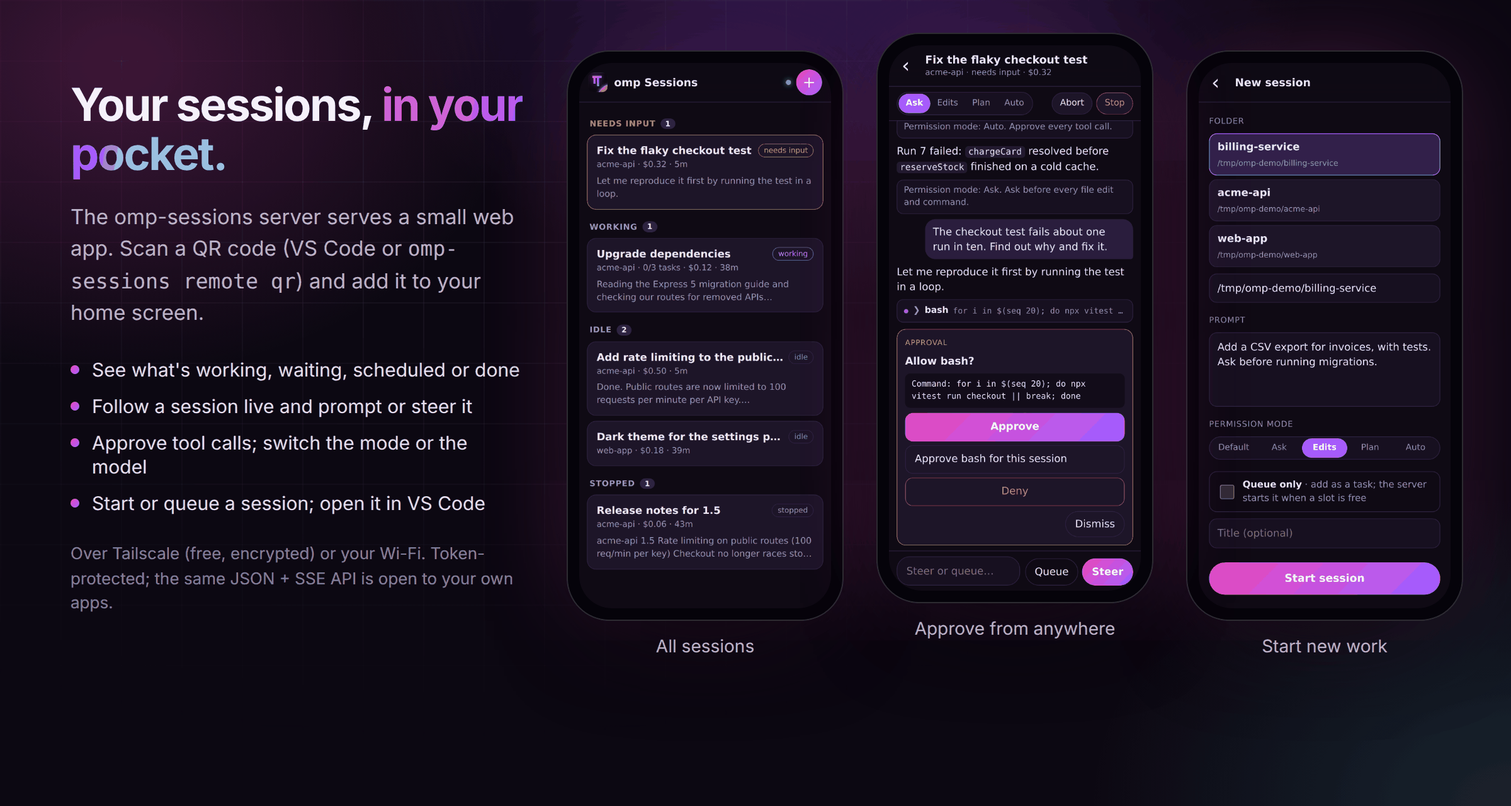
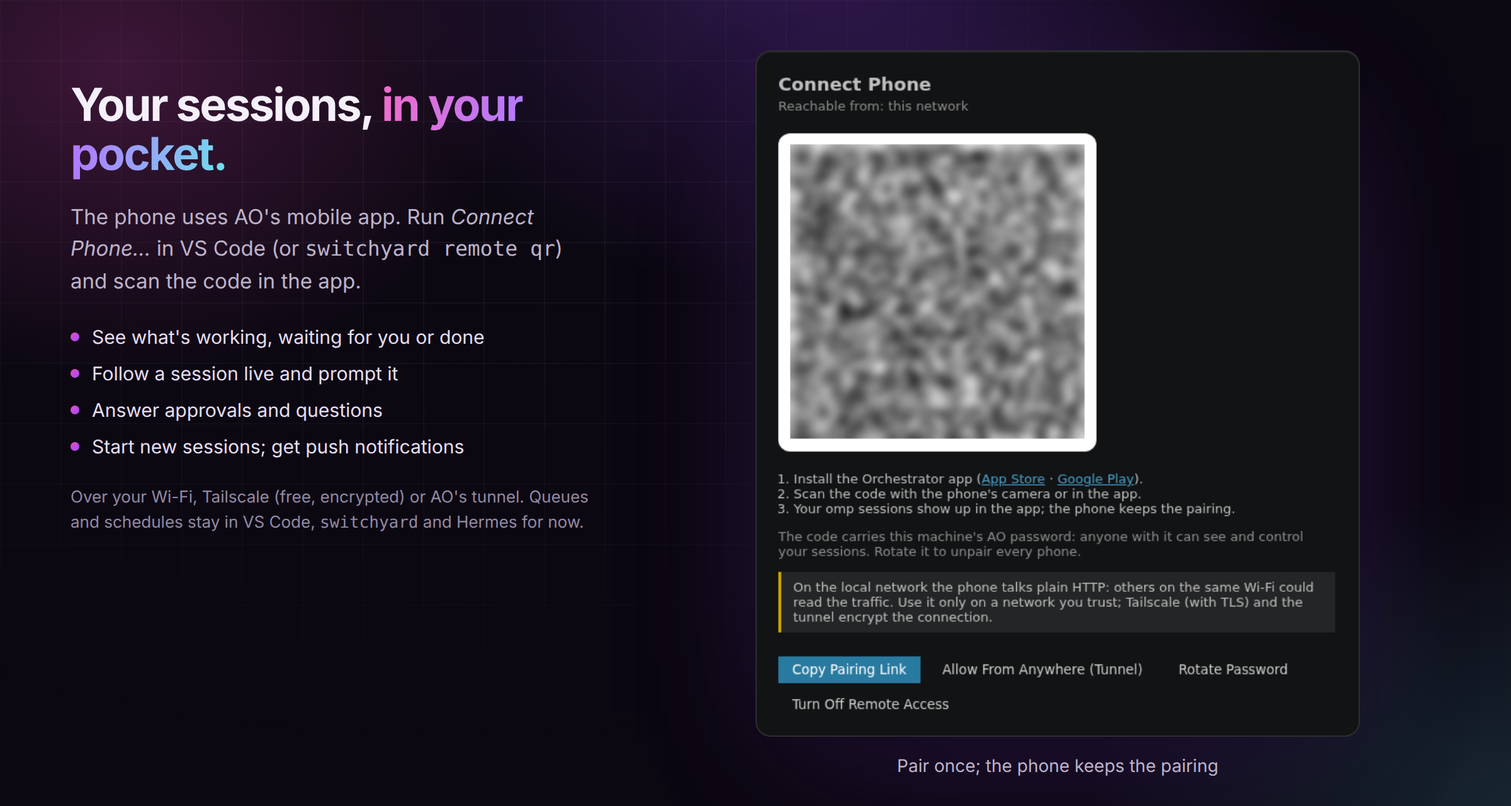
README graphics and link preview for Switchyard: planner + AO architecture, AO's phone app, no voice; hero shows a plan instead of the old phone app

diff --git a/docs/images/src/how-it-works.html b/docs/images/src/how-it-works.html
@@ -22,10 +22,10 @@ h2 { position: absolute; left: 56px; top: 40px; margin: 0; font-size: 30px; lett
 	border-radius: 20px; border: 1px dashed rgba(201, 165, 255, 0.45); background: rgba(155, 77, 255, 0.05);
 }
 .machine .title { position: absolute; left: 18px; top: -11px; padding: 0 8px; background: #0c0812; font-size: 13px; color: #c9a5ff; font-weight: 600; }
-.host { left: 452px; top: 186px; width: 200px; }
-.omp { left: 678px; top: 186px; width: 200px; }
-.server { left: 452px; top: 420px; width: 426px; }
-.repo { left: 960px; top: 186px; width: 190px; }
+.planner { left: 452px; top: 186px; width: 426px; }
+.ao { left: 452px; top: 352px; width: 200px; }
+.omp { left: 678px; top: 352px; width: 200px; }
+.repo { left: 960px; top: 352px; width: 190px; }
 .badge { display: inline-block; margin-top: 8px; padding: 3px 8px; border-radius: 999px; font-size: 12px; background: rgba(137, 209, 133, 0.12); color: #89d185; border: 1px solid rgba(137, 209, 133, 0.35); }
 .edge { position: absolute; font-size: 12px; color: #9389a3; }
 svg.wires { position: absolute; inset: 0; }
@@ -45,47 +45,50 @@ svg.wires { position: absolute; inset: 0; }
 		<marker id="a" viewBox="0 0 10 10" refX="8" refY="5" markerWidth="7" markerHeight="7" orient="auto"><path d="M0 0L10 5L0 10z" fill="#b383ff"/></marker>
 		<marker id="c" viewBox="0 0 10 10" refX="8" refY="5" markerWidth="7" markerHeight="7" orient="auto"><path d="M0 0L10 5L0 10z" fill="#5ad8e6"/></marker>
 	</defs>
-	<path d="M346 228 C 400 228, 400 240, 450 240" stroke="url(#w)" marker-end="url(#a)"/>
-	<path d="M346 345 C 400 345, 400 462, 450 462" stroke="url(#w)" marker-end="url(#a)"/>
-	<path d="M346 470 C 400 470, 400 482, 450 482" stroke="url(#w)" marker-end="url(#a)"/>
-	<path d="M552 418 L 552 392" stroke="#b383ff" stroke-dasharray="4 4" marker-end="url(#a)"/>
-	<path d="M652 270 L 676 270" stroke="#b383ff" marker-end="url(#a)"/>
-	<path d="M878 260 L 958 260" stroke="#5ad8e6" marker-end="url(#c)"/>
+	<path d="M346 222 C 400 222, 400 226, 450 226" stroke="url(#w)" marker-end="url(#a)"/>
+	<path d="M346 330 C 400 330, 400 254, 450 254" stroke="url(#w)" marker-end="url(#a)"/>
+	<path d="M346 350 C 400 350, 400 408, 450 408" stroke="url(#w)" marker-end="url(#a)"/>
+	<path d="M346 470 C 400 470, 400 436, 450 436" stroke="url(#w)" marker-end="url(#a)"/>
+	<path d="M552 300 L 552 348" stroke="#b383ff" stroke-dasharray="4 4" marker-end="url(#a)"/>
+	<path d="M652 420 L 676 420" stroke="#b383ff" marker-end="url(#a)"/>
+	<path d="M878 420 L 958 420" stroke="#5ad8e6" marker-end="url(#c)"/>
 </svg>
-<div class="edge" style="left:564px;top:396px">launches · relays</div>
-<div class="edge" style="left:886px;top:236px">edits</div>
+<div class="edge" style="left:356px;top:198px">plans</div>
+<div class="edge" style="left:356px;top:484px">sessions</div>
+<div class="edge" style="left:564px;top:316px">sends ready tasks</div>
+<div class="edge" style="left:886px;top:396px">edits</div>
 
 <div class="box client" style="top:160px">
 	<h3><span class="ic" style="background:rgba(79,193,255,.15);color:#4fc1ff"><svg viewBox="0 0 24 24"><rect x="3" y="4" width="18" height="16" rx="2"/><path d="M3 9h18M8 9v11"/></svg></span>VS Code windows</h3>
 	<p>Chat, Sessions view, board, tasks, diffs, undo. Local or Remote-SSH; any number of windows attach.</p>
 </div>
 <div class="box client" style="top:290px">
-	<h3><span class="ic" style="background:rgba(229,192,123,.15);color:#e5c07b"><svg viewBox="0 0 24 24"><path d="M5 7l5 5-5 5M12 18h7"/></svg></span><span class="mono">omp-sessions</span> · other agents</h3>
+	<h3 style="font-size:16px;white-space:nowrap"><span class="ic" style="background:rgba(229,192,123,.15);color:#e5c07b"><svg viewBox="0 0 24 24"><path d="M5 7l5 5-5 5M12 18h7"/></svg></span><span class="mono">switchyard</span>· other agents</h3>
 	<p>Your shell and scripts; Hermes (plugin), Claude Code and Codex (skill).</p>
 </div>
 <div class="box client" style="top:410px">
 	<h3><span class="ic" style="background:rgba(237,74,191,.15);color:#f27bcf"><svg viewBox="0 0 24 24"><rect x="7" y="2.5" width="10" height="19" rx="2.5"/><path d="M11 18.5h2"/></svg></span>Phone · your apps</h3>
-	<p>Web app over Tailscale or Wi-Fi, and a token-protected HTTP API.</p>
+	<p>AO's mobile app, paired with a QR code, and AO's HTTP API.</p>
 </div>
 
 <div class="machine"><span class="title">detached from VS Code · survives closing it, sleep, SSH drops</span></div>
-<div class="box host">
-	<h3>Session host</h3>
-	<p>One per session. Owns omp, keeps the transcript, answers approvals by mode, snapshots every edit.</p>
+<div class="box planner">
+	<h3><span class="ic" style="background:rgba(155,77,255,.18);color:#c9a5ff"><svg viewBox="0 0 24 24"><rect x="4" y="4" width="16" height="6" rx="1.5"/><rect x="4" y="14" width="16" height="6" rx="1.5"/><path d="M8 7h.01M8 17h.01"/></svg></span>Switchyard planner</h3>
+	<p>One per user. Holds your plans: task graphs, queues, schedules, the concurrency limit and usage holds. Starts each task when it is ready, also after a reboot.</p>
+</div>
+<div class="box ao">
+	<h3>Agent Orchestrator</h3>
+	<p>The AO daemon gives each session a git worktree and a chat host that outlives every client; holds approvals.</p>
 </div>
 <div class="box omp">
 	<h3><img src="../../../site/assets/logo.svg" alt="" style="width:22px;height:22px">omp</h3>
-	<p>oh-my-pi in RPC mode: your models, tools, skills and settings.</p>
+	<p>oh-my-pi in the session's worktree: your models, tools, skills. Switchyard's extension adds modes and undo.</p>
 	<span class="badge">keeps working</span>
-</div>
-<div class="box server">
-	<h3><span class="ic" style="background:rgba(155,77,255,.18);color:#c9a5ff"><svg viewBox="0 0 24 24"><rect x="4" y="4" width="16" height="6" rx="1.5"/><rect x="4" y="14" width="16" height="6" rx="1.5"/><path d="M8 7h.01M8 17h.01"/></svg></span>omp-sessions server</h3>
-	<p>One per user. Starts queued tasks when a slot frees (also after a reboot), serves <span class="mono">omp-sessions</span>, the phone app and its API.</p>
 </div>
 <div class="box repo">
 	<h3><span class="ic" style="background:rgba(90,216,230,.14);color:#5ad8e6"><svg viewBox="0 0 24 24"><path d="M3 7a2 2 0 0 1 2-2h4l2 2h8a2 2 0 0 1 2 2v8a2 2 0 0 1-2 2H5a2 2 0 0 1-2-2z"/></svg></span>Repository</h3>
-	<p>Edits land on disk; each one can be diffed, reverted, or undone with its turn.</p>
+	<p>A branch <span class="mono">ao/&lt;session&gt;/root</span> per session: diff it, revert, undo a turn, merge.</p>
 </div>
 
-<div class="foot">State: <span class="mono">~/.omp/vscode</span> · transcripts stay in omp's own <span class="mono">~/.omp/agent/sessions</span></div>
+<div class="foot">State: <span class="mono">~/.switchyard</span> (plans) · <span class="mono">~/.ao/data</span> (sessions, worktrees) · transcripts stay in omp's own <span class="mono">~/.omp/agent/sessions</span></div>
 </body></html>

diff --git a/docs/images/src/setup.html b/docs/images/src/setup.html
@@ -31,7 +31,7 @@ svg.wires { position: absolute; inset: 0; }
 </style></head>
 <body><div class="glow"></div><div class="grid"></div>
 <h2>One machine runs it all</h2>
-<div class="sub dim">Your own computer or a server: it runs the code, the agents and Hermes. VS Code, Hermes Desktop and your phone are windows onto it.</div>
+<div class="sub dim">Your own computer or a server: it runs the code, AO, the planner and Hermes. VS Code, Hermes Desktop and your phone are windows onto it.</div>
 
 <div class="col-label" style="left:48px">Here or on a laptop</div>
 <div class="col-label" style="left:930px">Phone</div>
@@ -41,22 +41,22 @@ svg.wires { position: absolute; inset: 0; }
 		<marker id="a" viewBox="0 0 10 10" refX="8" refY="5" markerWidth="7" markerHeight="7" orient="auto"><path d="M0 0L10 5L0 10z" fill="#b383ff"/></marker>
 		<marker id="c" viewBox="0 0 10 10" refX="8" refY="5" markerWidth="7" markerHeight="7" orient="auto"><path d="M0 0L10 5L0 10z" fill="#5ad8e6"/></marker>
 	</defs>
-	<!-- VS Code -> omp-sessions -->
+	<!-- VS Code -> planner + AO -->
 	<path d="M310 214 L 410 214" stroke="#b383ff" marker-end="url(#a)"/>
 	<!-- Desktop -> Hermes -->
 	<path d="M310 420 L 410 420" stroke="#b383ff" marker-end="url(#a)"/>
-	<!-- phone app -> omp-sessions -->
+	<!-- AO's phone app -> AO -->
 	<path d="M930 214 L 830 214" stroke="#5ad8e6" marker-end="url(#c)"/>
 	<!-- chats -> Hermes -->
 	<path d="M930 420 L 830 420" stroke="#5ad8e6" marker-end="url(#c)"/>
-	<!-- plugin -> omp-sessions -->
+	<!-- plugin -> planner + AO -->
 	<path d="M560 372 L 560 306" stroke="#b383ff" stroke-dasharray="4 4" marker-end="url(#a)"/>
 </svg>
 <div class="edge" style="left:318px;top:190px">local · SSH</div>
 <div class="edge" style="left:318px;top:396px">local · SSH</div>
-<div class="edge" style="left:846px;top:190px">Tailscale</div>
+<div class="edge" style="left:846px;top:176px;line-height:1.3">Wi-Fi ·<br>Tailscale</div>
 <div class="edge" style="left:846px;top:396px">chat apps</div>
-<div class="edge" style="left:572px;top:330px">omp_session_* · kanban lane</div>
+<div class="edge" style="left:572px;top:330px">switchyard_* · kanban lane</div>
 
 <div class="box left" style="top:160px">
 	<h3><span class="ic" style="background:rgba(79,193,255,.15);color:#4fc1ff"><svg viewBox="0 0 24 24"><rect x="3" y="4" width="18" height="16" rx="2"/><path d="M3 9h18M8 9v11"/></svg></span>VS Code</h3>
@@ -64,27 +64,27 @@ svg.wires { position: absolute; inset: 0; }
 </div>
 <div class="box left" style="top:366px">
 	<h3><span class="ic" style="background:rgba(155,77,255,.18);color:#c9a5ff"><svg viewBox="0 0 24 24"><path d="M12 8V4.5H8.5"/><rect x="4" y="8" width="16" height="12" rx="2.5"/><path d="M9 13v2M15 13v2"/></svg></span>Hermes Desktop</h3>
-	<p>Chats with Hermes, its kanban, and the <b>omp Sessions</b> page in the sidebar.</p>
+	<p>Chats with Hermes, its kanban, and the <b>Switchyard</b> page in the sidebar.</p>
 </div>
 
 <div class="ws"><span class="title">The machine with your code · always on</span></div>
 <div class="box mid" style="top:170px">
-	<h3><span class="ic" style="background:rgba(155,77,255,.18);color:#c9a5ff"><svg viewBox="0 0 24 24"><rect x="4" y="4" width="16" height="6" rx="1.5"/><rect x="4" y="14" width="16" height="6" rx="1.5"/><path d="M8 7h.01M8 17h.01"/></svg></span>omp-sessions server <span class="dimmer" style="font-weight:500;font-size:13px">systemd / launchd service</span></h3>
-	<p>Queue, schedule and concurrency limit; starts a detached session host per session, each running omp in your repository.</p>
-	<span class="pill">session host + omp</span><span class="pill">session host + omp</span><span class="pill">phone app + API</span>
+	<h3><span class="ic" style="background:rgba(155,77,255,.18);color:#c9a5ff"><svg viewBox="0 0 24 24"><rect x="4" y="4" width="16" height="6" rx="1.5"/><rect x="4" y="14" width="16" height="6" rx="1.5"/><path d="M8 7h.01M8 17h.01"/></svg></span>Switchyard planner + AO <span class="dimmer" style="font-weight:500;font-size:13px">user services</span></h3>
+	<p>The planner holds plans, queues, schedules and limits and sends ready tasks to AO; AO runs each session as omp in its own worktree.</p>
+	<span class="pill">AO session + omp</span><span class="pill">AO session + omp</span><span class="pill">phone pairing</span>
 </div>
 <div class="box mid" style="top:372px">
 	<h3><span class="ic" style="background:rgba(237,74,191,.15);color:#f27bcf"><svg viewBox="0 0 24 24"><path d="M12 3l1.9 5.1L19 10l-5.1 1.9L12 17l-1.9-5.1L5 10l5.1-1.9z"/></svg></span>Hermes gateway + dashboard</h3>
-	<p>Profiles, chats, cron and kanban boards. The <span class="mono">omp-sessions</span> plugin adds the tools, the lane (cards assigned to <span class="mono">omp</span>) and the page.</p>
+	<p>Profiles, chats, cron and kanban boards. The <span class="mono">switchyard</span> plugin adds the tools, the lane (cards assigned to <span class="mono">omp</span>) and the page.</p>
 	<span class="pill">lane on in one profile</span><span class="pill">plugin in every profile</span>
 </div>
 <div class="box mid" style="top:540px;width:412px;padding:10px 15px">
-	<h3 style="font-size:14px"><span class="ic" style="background:rgba(90,216,230,.14);color:#5ad8e6;width:24px;height:24px"><svg viewBox="0 0 24 24"><path d="M3 7a2 2 0 0 1 2-2h4l2 2h8a2 2 0 0 1 2 2v8a2 2 0 0 1-2 2H5a2 2 0 0 1-2-2z"/></svg></span>Repositories and worktrees</h3>
+	<h3 style="font-size:14px"><span class="ic" style="background:rgba(90,216,230,.14);color:#5ad8e6;width:24px;height:24px"><svg viewBox="0 0 24 24"><path d="M3 7a2 2 0 0 1 2-2h4l2 2h8a2 2 0 0 1 2 2v8a2 2 0 0 1-2 2H5a2 2 0 0 1-2-2z"/></svg></span>Repositories · a worktree per session</h3>
 </div>
 
 <div class="box right" style="top:160px">
-	<h3><span class="ic" style="background:rgba(237,74,191,.15);color:#f27bcf"><svg viewBox="0 0 24 24"><rect x="7" y="2.5" width="10" height="19" rx="2.5"/><path d="M11 18.5h2"/></svg></span>omp phone app</h3>
-	<p>Follow, answer and start sessions, over Tailscale or your Wi-Fi.</p>
+	<h3><span class="ic" style="background:rgba(237,74,191,.15);color:#f27bcf"><svg viewBox="0 0 24 24"><rect x="7" y="2.5" width="10" height="19" rx="2.5"/><path d="M11 18.5h2"/></svg></span>AO's phone app</h3>
+	<p>Follow, answer and start sessions over Wi-Fi, Tailscale or AO's tunnel.</p>
 </div>
 <div class="box right" style="top:366px">
 	<h3><span class="ic" style="background:rgba(229,192,123,.15);color:#e5c07b"><svg viewBox="0 0 24 24"><path d="M4 5h16v11H8l-4 4z"/></svg></span>Hermes chats</h3>

diff --git a/docs/images/src/hero.html b/docs/images/src/hero.html
@@ -2,30 +2,48 @@
 <html><head><meta charset="utf-8"><link rel="stylesheet" href="base.css">
 <style>
 body { width: 1200px; height: 580px; }
-.left { position: absolute; left: 60px; top: 56px; width: 470px; }
+.left { position: absolute; left: 60px; top: 56px; width: 450px; }
 h1 { margin: 42px 0 0; font-size: 50px; line-height: 1.04; letter-spacing: -0.04em; font-weight: 750; }
-p { margin: 22px 0 0; font-size: 18px; line-height: 1.5; }
+p { margin: 22px 0 0; font-size: 17.5px; line-height: 1.5; }
 p b { color: #f4f0f9; font-weight: 600; }
-.chips { margin-top: 28px; display: flex; flex-wrap: wrap; gap: 9px; }
-.shot { position: absolute; left: 545px; top: 64px; width: 590px; }
-.phone { position: absolute; left: 992px; top: 160px; width: 172px; }
-.tag { position: absolute; left: 545px; top: 474px; }
+.chips { margin-top: 26px; display: flex; flex-wrap: wrap; gap: 9px; }
+/* chat.png cropped to the editor area (x 572–1600, y 44–958), without the old side bar and status bar */
+.shot { position: absolute; left: 540px; top: 56px; width: 520px; height: 463px; }
+.shot img { width: 809px; max-width: none; margin: -22px 0 0 -289px; }
+/* the composer's old microphone button (removed from the product) */
+.shot .patch { position: absolute; left: 34px; top: 429px; width: 13px; height: 12px; background: #313131; }
+.plan { position: absolute; left: 892px; top: 238px; width: 276px; padding: 15px 17px; border-radius: 14px; background: rgba(21, 15, 30, 0.95); border: 1px solid rgba(236, 225, 255, 0.16); box-shadow: 0 30px 80px -30px rgba(0, 0, 0, 0.95), 0 0 90px -30px rgba(237, 74, 191, 0.55); }
+.plan h2 { margin: 0 0 4px; font-size: 11.5px; letter-spacing: 0.13em; color: #9389a3; font-weight: 650; }
+.row { display: flex; align-items: center; gap: 9px; padding: 8px 0; border-bottom: 1px solid rgba(236, 225, 255, 0.08); font-size: 14px; color: #e6def2; }
+.row.sub { padding-left: 17px; font-size: 13px; color: #bdb3cb; }
+.row .t { flex: 1; }
+.row .m { font-size: 12px; color: #9389a3; }
+.plan .s { margin-top: 11px; font-size: 12px; color: #c9a5ff; }
+.tag { position: absolute; left: 540px; top: 530px; }
 .tag .chip { background: rgba(21, 15, 30, 0.92); font-size: 13px; }
 </style></head>
 <body><div class="glow"></div><div class="grid"></div>
 <div class="left">
-	<div class="brand"><img src="../../../site/assets/logo.svg" alt="">omp Sessions</div>
-	<h1>A task server for <span class="g">your coding agents.</span></h1>
-	<p class="dim">Background <b>oh-my-pi</b> sessions, each with its own task queue, scheduled starts and one concurrency limit across all of them. Drive them from the terminal, VS Code, your phone or Hermes. Close the laptop or drop SSH: the work goes on.</p>
+	<div class="brand"><img src="../../../site/assets/logo.svg" alt="">Switchyard</div>
+	<h1>Plans for <span class="g">your coding agents.</span></h1>
+	<p class="dim">Tasks with subtasks and dependencies, queues, schedules and one limit on how many run at once. The planner hands each ready task to <b>Agent Orchestrator</b>, which runs it as an <b>oh-my-pi</b> session in its own git worktree. Close the laptop or drop SSH: the work goes on.</p>
 	<div class="chips">
-		<span class="chip"><span class="dot" style="background:#e5c07b"></span>Queues &amp; schedules</span>
-		<span class="chip"><span class="dot" style="background:#5ad8e6"></span>Runs in the background</span>
+		<span class="chip"><span class="dot" style="background:#e5c07b"></span>Task graphs &amp; queues</span>
+		<span class="chip"><span class="dot" style="background:#5ad8e6"></span>Schedules &amp; usage limits</span>
 		<span class="chip"><span class="dot" style="background:#b383ff"></span>Ask · Edits · Plan · Auto</span>
 		<span class="chip"><span class="dot" style="background:#ed4abf"></span>Undo any turn</span>
-		<span class="chip"><span class="dot" style="background:#89d185"></span>VS Code · CLI · phone · Hermes</span>
+		<span class="chip"><span class="dot" style="background:#89d185"></span>VS Code · CLI · Hermes · phone</span>
 	</div>
 </div>
-<div class="win shot"><img src="../chat.png" alt=""></div>
-<div class="phone"><img src="../phone/approval.png" alt=""></div>
-<div class="tag"><span class="chip mono"><span class="dot" style="background:#89d185"></span>VS Code closed · 3 sessions still running</span></div>
+<div class="win shot"><img src="../chat.png" alt=""><div class="patch"></div></div>
+<div class="plan">
+	<h2>PLAN · ACME-API</h2>
+	<div class="row"><span class="dot" style="background:#4fc1ff"></span><span class="t">Upgrade dependencies</span><span class="m">▶ 2/3</span></div>
+	<div class="row sub"><span class="t">└ Release notes for 1.5</span><span class="m">after it</span></div>
+	<div class="row"><span class="dot" style="background:#ed4abf"></span><span class="t">Fix the flaky test</span><span class="m">needs you</span></div>
+	<div class="row"><span class="dot" style="background:#89d185"></span><span class="t">Rate limiting</span><span class="m">done</span></div>
+	<div class="row" style="border-bottom:0"><span class="dot" style="background:#5ad8e6"></span><span class="t">Nightly cleanup</span><span class="m">at 02:00</span></div>
+	<div class="s mono">planner → AO · 2/3 slots busy</div>
+</div>
+<div class="tag"><span class="chip mono"><span class="dot" style="background:#89d185"></span>VS Code closed · AO keeps 3 sessions running</span></div>
 </body></html>

diff --git a/docs/images/src/a-day.html b/docs/images/src/a-day.html
@@ -13,8 +13,6 @@ h2 { position: absolute; left: 56px; top: 40px; margin: 0; font-size: 30px; lett
 .thumb { height: 150px; overflow: hidden; background: #1f1f1f; border-bottom: 1px solid rgba(236, 225, 255, 0.1); position: relative; }
 .thumb img { width: 100%; height: 100%; object-fit: cover; display: block; }
 .thumb img.crop { width: 560px; height: auto; max-width: none; object-fit: fill; }
-.thumb.phoneish { background: #0c0812; display: grid; place-items: center; }
-.thumb.phoneish img { width: auto; height: 136px; object-fit: contain; border-radius: 10px; border: 1px solid rgba(255,255,255,.14); }
 .thumb.away { background: radial-gradient(70% 90% at 50% 40%, rgba(155, 77, 255, 0.22), transparent 70%), #120c1a; display: flex; flex-direction: column; justify-content: center; gap: 8px; padding: 0 14px; }
 .thumb.away .row { display: flex; align-items: center; gap: 8px; font-size: 12.5px; color: #e6def2; background: rgba(42, 31, 57, 0.8); border: 1px solid rgba(236, 225, 255, 0.12); border-radius: 8px; padding: 6px 9px; }
 .thumb.away .row span:last-child { margin-left: auto; color: #9389a3; font-size: 11.5px; }
@@ -23,14 +21,14 @@ h2 { position: absolute; left: 56px; top: 40px; margin: 0; font-size: 30px; lett
 .body p { margin: 6px 0 0; font-size: 13px; line-height: 1.45; color: #bdb3cb; }
 </style></head>
 <body><div class="glow"></div><div class="grid"></div>
-<h2>A day with omp Sessions</h2>
-<div class="sub dim">Hand work to omp in the morning, check in from anywhere, review and keep what's good.</div>
+<h2>A day with Switchyard</h2>
+<div class="sub dim">Plan the work in the morning, check in from anywhere, review and keep what's good.</div>
 <div class="line"></div>
 <div class="steps">
 	<div class="step">
 		<div class="pin">1</div><div class="time">09:00 · at your desk</div>
 		<div class="card"><div class="thumb"><img class="crop" src="../tasks.png" style="margin: -50px 0 0 -26px;" alt=""></div>
-		<div class="body"><h3>Queue the day</h3><p>Tasks with subtasks across two repos. Two run at a time; the rest wait their turn.</p></div></div>
+		<div class="body"><h3>Plan the day</h3><p>Tasks, subtasks and dependencies across two repos. Two run at a time; the rest wait their turn.</p></div></div>
 	</div>
 	<div class="step">
 		<div class="pin">2</div><div class="time">09:30 · laptop closed</div>
@@ -39,12 +37,12 @@ h2 { position: absolute; left: 56px; top: 40px; margin: 0; font-size: 30px; lett
 			<div class="row"><span class="dot" style="background:#e5c07b"></span>Flaky test<span>needs you</span></div>
 			<div class="row"><span class="dot" style="background:#89d185"></span>Rate limiting<span>done</span></div>
 		</div>
-		<div class="body"><h3>Walk away</h3><p>Close VS Code, sleep the laptop, lose SSH. The sessions keep going on the machine.</p></div></div>
+		<div class="body"><h3>Walk away</h3><p>Close VS Code, lose SSH. AO keeps the sessions running; the planner starts the next task.</p></div></div>
 	</div>
 	<div class="step">
 		<div class="pin">3</div><div class="time">12:40 · on your phone</div>
-		<div class="card"><div class="thumb phoneish"><img src="../phone/approval.png" style="object-position: 0 55%; object-fit: cover; width: 120px;" alt=""></div>
-		<div class="body"><h3>Approve on the go</h3><p>A session asks to run a command: approve it, switch it to Edits, or start a new one.</p></div></div>
+		<div class="card"><div class="thumb"><img src="../approval.png" style="object-position: left center;" alt=""></div>
+		<div class="body"><h3>Approve on the go</h3><p>A session asks to run a command: answer it in AO's phone app, VS Code or Hermes.</p></div></div>
 	</div>
 	<div class="step">
 		<div class="pin">4</div><div class="time">15:00 · back in VS Code</div>

diff --git a/docs/images/src/phone.html b/docs/images/src/phone.html
@@ -2,34 +2,29 @@
 <html><head><meta charset="utf-8"><link rel="stylesheet" href="base.css">
 <style>
 body { width: 1200px; height: 640px; }
-.left { position: absolute; left: 56px; top: 64px; width: 360px; }
+.left { position: absolute; left: 56px; top: 64px; width: 420px; }
 h2 { margin: 0; font-size: 36px; line-height: 1.08; letter-spacing: -0.035em; font-weight: 750; }
 .left p { margin: 18px 0 0; font-size: 16.5px; line-height: 1.55; }
 ul { margin: 22px 0 0; padding: 0; list-style: none; display: grid; gap: 10px; font-size: 15px; color: #e6def2; }
 li { display: flex; gap: 10px; align-items: baseline; }
 li::before { content: ""; width: 7px; height: 7px; border-radius: 50%; background: linear-gradient(135deg, #ed4abf, #9b4dff); flex: none; transform: translateY(-2px); }
 .note { margin-top: 22px; font-size: 13px; color: #9389a3; line-height: 1.5; }
-.phones { position: absolute; left: 450px; top: 40px; display: flex; gap: 26px; }
-figure { margin: 0; width: 220px; }
-figure .phone { width: 220px; }
-figcaption { margin-top: 12px; text-align: center; font-size: 14px; color: #bdb3cb; }
-figure:nth-child(2) { transform: translateY(-14px); }
+/* connect-phone.png: the Connect Phone panel of the VS Code extension (QR blurred) */
+.shot { position: absolute; left: 600px; top: 40px; width: 480px; padding: 12px 6px 6px; background: #121314; }
+.cap { position: absolute; left: 600px; top: 600px; width: 480px; text-align: center; font-size: 14px; color: #bdb3cb; }
 </style></head>
 <body><div class="glow"></div><div class="grid"></div>
 <div class="left">
 	<h2>Your sessions, <span class="g">in your pocket.</span></h2>
-	<p class="dim">The omp-sessions server serves a small web app. Scan a QR code (VS Code or <span class="mono">omp-sessions remote qr</span>) and add it to your home screen.</p>
+	<p class="dim">The phone uses AO's mobile app. Run <i>Connect Phone…</i> in VS Code (or <span class="mono">switchyard remote qr</span>) and scan the code in the app.</p>
 	<ul>
-		<li>See what's working, waiting, scheduled or done</li>
-		<li>Follow a session live and prompt or steer it</li>
-		<li>Approve tool calls; switch the mode or the model</li>
-		<li>Start or queue a session; open it in VS Code</li>
+		<li>See what's working, waiting for you or done</li>
+		<li>Follow a session live and prompt it</li>
+		<li>Answer approvals and questions</li>
+		<li>Start new sessions; get push notifications</li>
 	</ul>
-	<div class="note">Over Tailscale (free, encrypted) or your Wi-Fi. Token-protected; the same JSON + SSE API is open to your own apps.</div>
+	<div class="note">Over your Wi-Fi, Tailscale (free, encrypted) or AO's tunnel. Queues and schedules stay in VS Code, <span class="mono">switchyard</span> and Hermes for now.</div>
 </div>
-<div class="phones">
-	<figure><div class="phone"><img src="../phone/list.png" alt=""></div><figcaption>All sessions</figcaption></figure>
-	<figure><div class="phone"><img src="../phone/approval.png" alt=""></div><figcaption>Approve from anywhere</figcaption></figure>
-	<figure><div class="phone"><img src="../phone/new.png" alt=""></div><figcaption>Start new work</figcaption></figure>
-</div>
+<div class="win shot"><img src="../connect-phone.png" alt=""></div>
+<div class="cap">Pair once; the phone keeps the pairing</div>
 </body></html>

diff --git a/docs/images/src/og.html b/docs/images/src/og.html
@@ -15,16 +15,16 @@ h1 { margin: 64px 0 0; font-size: 76px; line-height: 1.02; letter-spacing: -0.04
 </style></head>
 <body><div class="glow"></div><div class="grid"></div>
 <div class="left">
-	<div class="brand" style="font-size:28px"><img src="../../../site/assets/logo.svg" alt="" style="width:42px;height:42px">omp Sessions</div>
-	<h1>A task server for <span class="g">your coding agents.</span></h1>
+	<div class="brand" style="font-size:28px"><img src="../../../site/assets/logo.svg" alt="" style="width:42px;height:42px">Switchyard</div>
+	<h1>Plans for <span class="g">your coding agents.</span></h1>
 </div>
 <div class="card">
-	<h2>QUEUE</h2>
+	<h2>PLAN</h2>
 	<div class="row"><span class="dot" style="background:#e5c07b"></span><span class="t">Fix flaky auth test</span><span class="m">running</span></div>
 	<div class="row"><span class="dot" style="background:#e5c07b"></span><span class="t">Upgrade deps</span><span class="m">▶ 2/3</span></div>
-	<div class="row"><span class="dot" style="background:#ed4abf"></span><span class="t">Migrate config</span><span class="m">needs you</span></div>
+	<div class="row"><span class="dot" style="background:#9389a3"></span><span class="t">Release notes</span><span class="m">after deps</span></div>
 	<div class="row"><span class="dot" style="background:#5ad8e6"></span><span class="t">Nightly cleanup</span><span class="m">at 02:00</span></div>
-	<div class="s mono">VS Code closed · 2/3 slots busy</div>
+	<div class="s mono">planner → AO · 2/3 slots busy</div>
 </div>
-<div class="foot dim">Background <b>oh-my-pi</b> sessions · queues &amp; schedules · VS Code, CLI, phone, Hermes</div>
+<div class="foot dim">Task graphs, queues &amp; schedules for <b>oh-my-pi</b> on Agent Orchestrator</div>
 </body></html>

diff --git a/README.md b/README.md
@@ -4,7 +4,7 @@
 [![Installs](https://img.shields.io/visual-studio-marketplace/i/mbaradad.switchyard?color=ed4abf)](https://marketplace.visualstudio.com/items?itemName=mbaradad.switchyard)
 [![License: MIT](https://img.shields.io/badge/license-MIT-5ad8e6)](LICENSE)
 
-![Switchyard: plans for your coding agents. A VS Code chat with an inline diff next to a phone approving a command.](docs/images/hero.png)
+![Switchyard: plans for your coding agents. A VS Code chat with an inline diff next to a plan with running, dependent, waiting and scheduled tasks.](docs/images/hero.png)
 
 Switchyard plans work for [oh-my-pi](https://omp.sh) (`omp`) coding agents and hands it to [Agent Orchestrator](https://github.com/OrchestratorInc/agent-orchestrator) (AO) to run. You write plans: tasks with subtasks and dependencies, queues per session, scheduled starts, priorities and a limit on how many run at once. The Switchyard *planner*, a small service on the machine with your code, sends each task to AO when its dependencies are done, a slot is free and its start time has come. AO runs it as an omp session in its own git worktree and keeps it alive with no client open. That's the difference from omp in tmux: work keeps moving without you, not just the process. Every client reaches the same sessions: the `switchyard` command, VS Code (any session opens there with the full chat, diffs and undo), AO's phone app, Hermes Agent and other agents. Close everything, sleep the laptop or drop SSH, and come back to what happened meanwhile: answers, diffs, questions waiting for you.
 

diff --git a/docs/images/src/README.md b/docs/images/src/README.md
@@ -1,6 +1,6 @@
 # README graphics
 
-`hero.html`, `how-it-works.html`, `a-day.html`, `phone.html` and `setup.html` are the sources of the PNGs one folder up (`setup.png` is used by `docs/SETUP.md`); `og.html` is the website's link preview, `site/assets/og.png`, rendered at 1×. Most embed the screenshots in `docs/images/` (see `docs/PUBLISHING.md` §5), so re-render them after retaking screenshots. Render at 2× from the repository root:
+`hero.html`, `how-it-works.html`, `a-day.html`, `phone.html` and `setup.html` are the sources of the PNGs one folder up (the README shows `hero.png` and `a-day.png`); `og.html` is the website's link preview, `site/assets/og.png`, rendered at 1×. Most embed the screenshots in `docs/images/` (see `docs/PUBLISHING.md` §5), so re-render them after retaking screenshots. `hero.html` crops `chat.png` to the editor area. `approval.png` (used by `a-day.html`) and `connect-phone.png` (used by `phone.html`, QR code blurred) are crops of screenshots of the extension's approval card and *Connect Phone* panel. Render at 2× from the repository root:
 
 ```sh
 npx -y playwright screenshot --device "Desktop Chrome HiDPI" --viewport-size 1200,580 "file://$PWD/docs/images/src/hero.html" docs/images/hero.png
